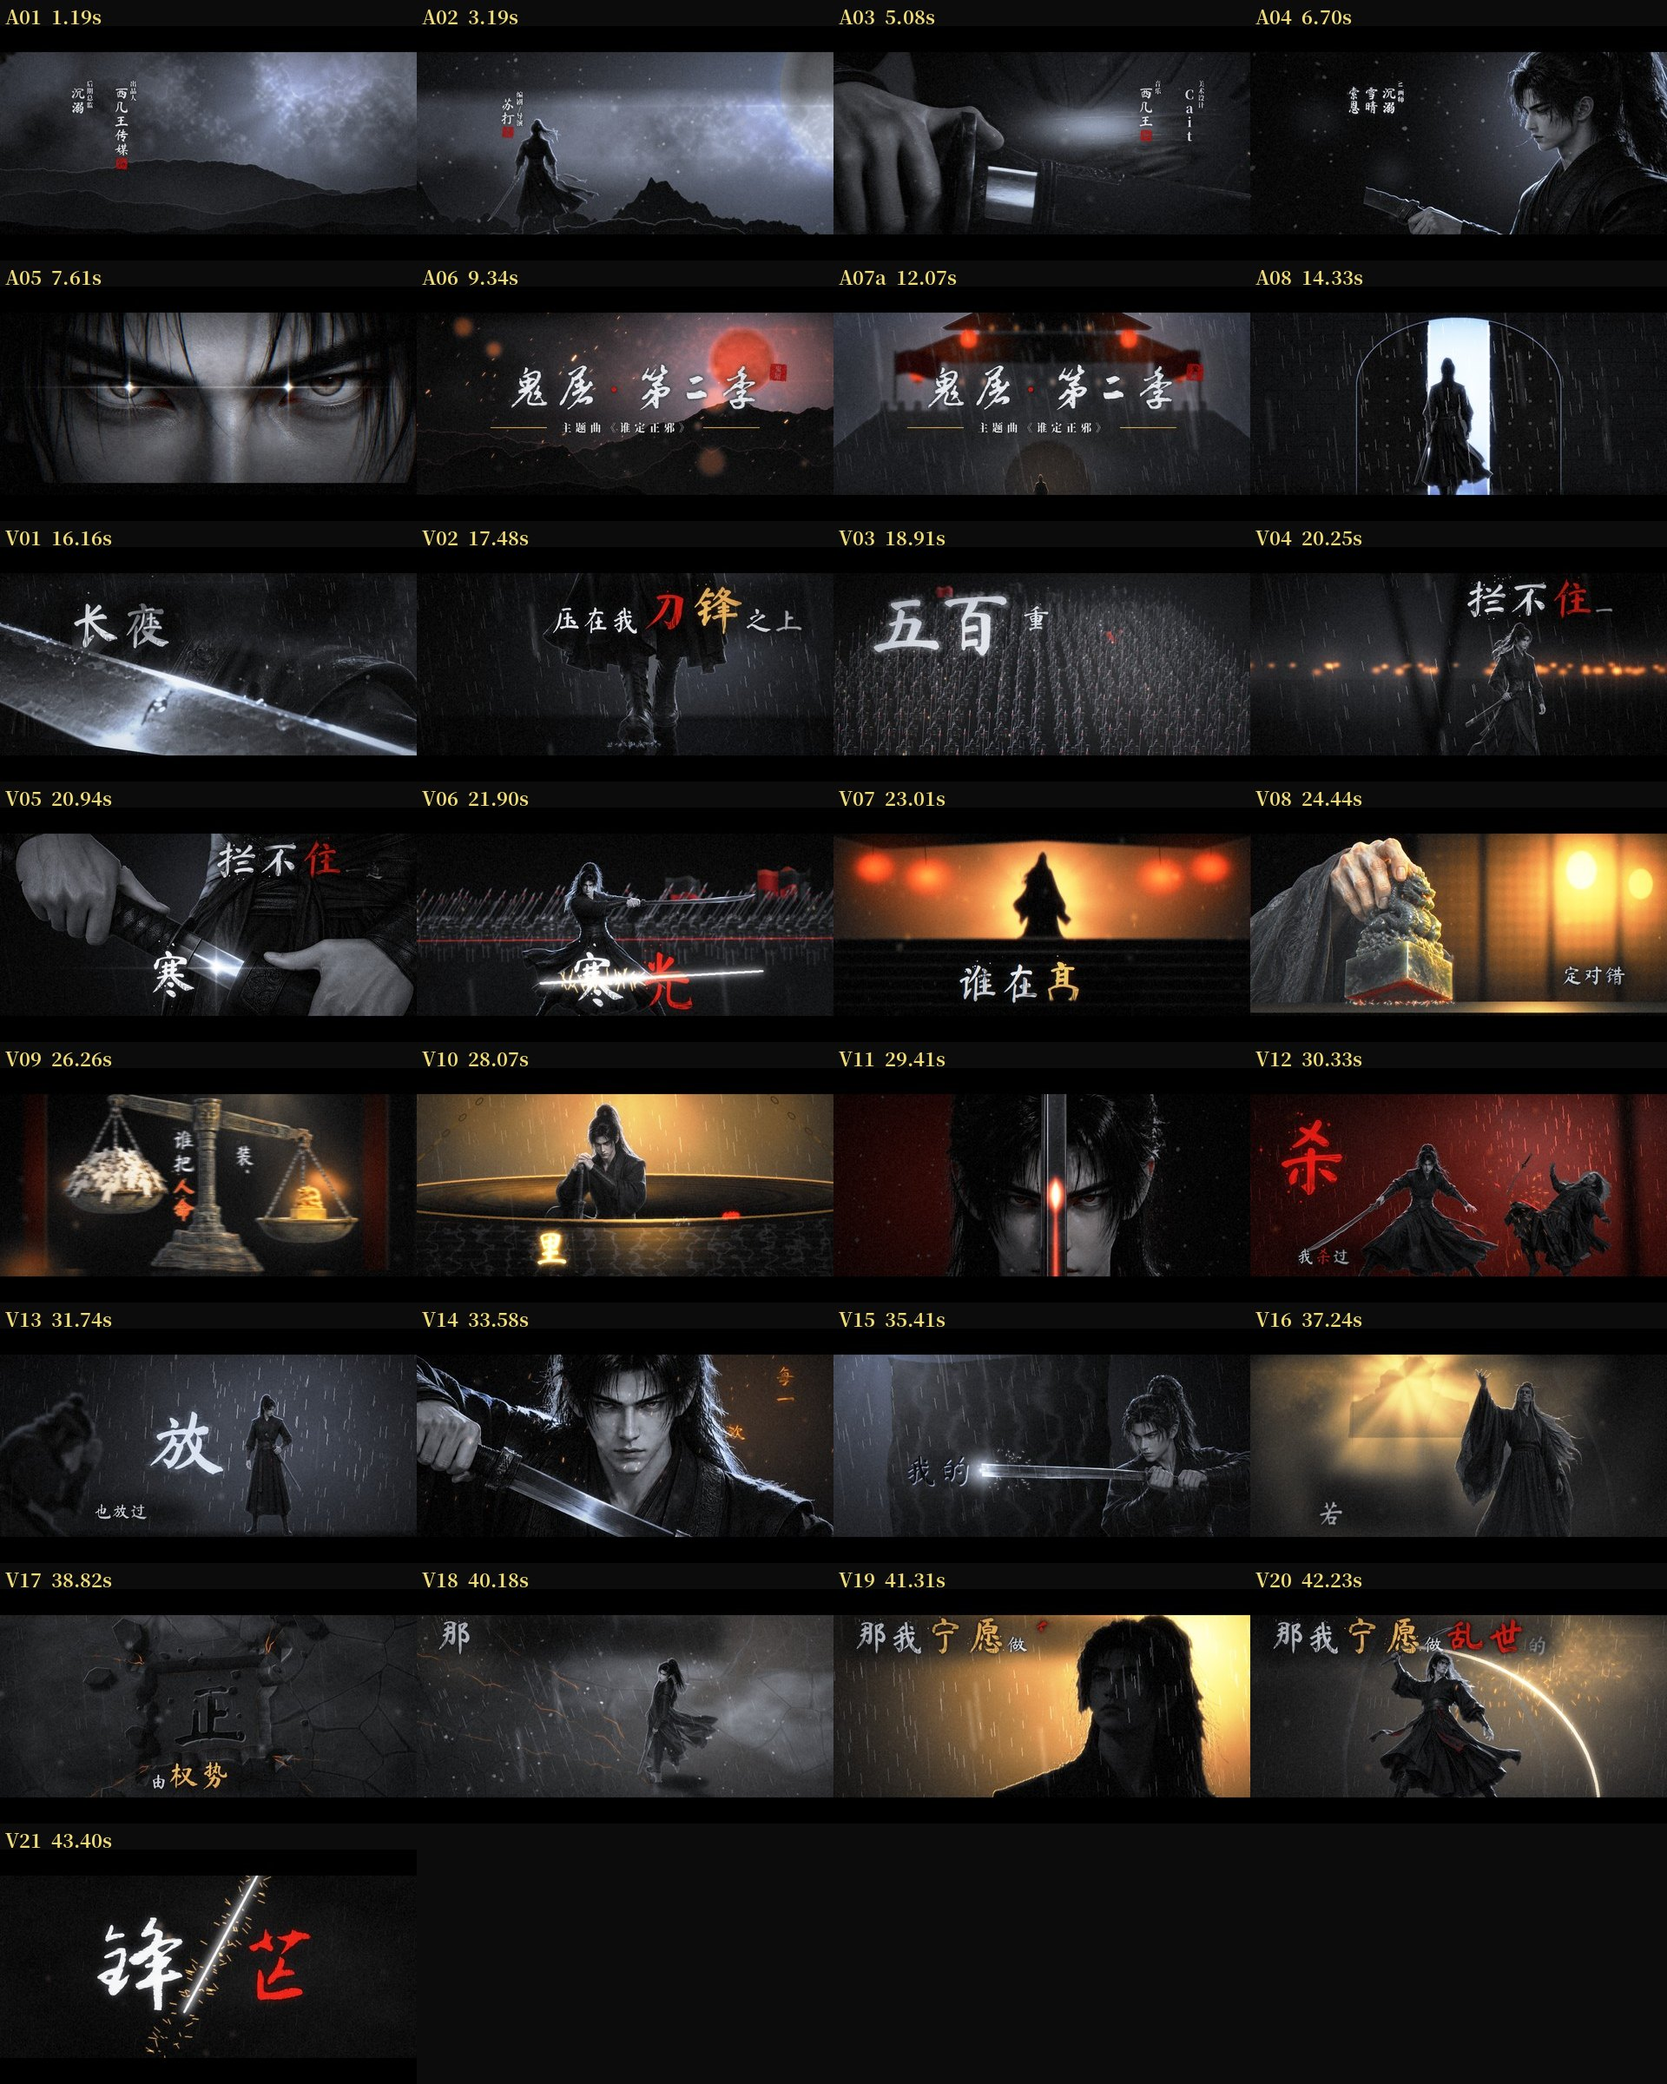
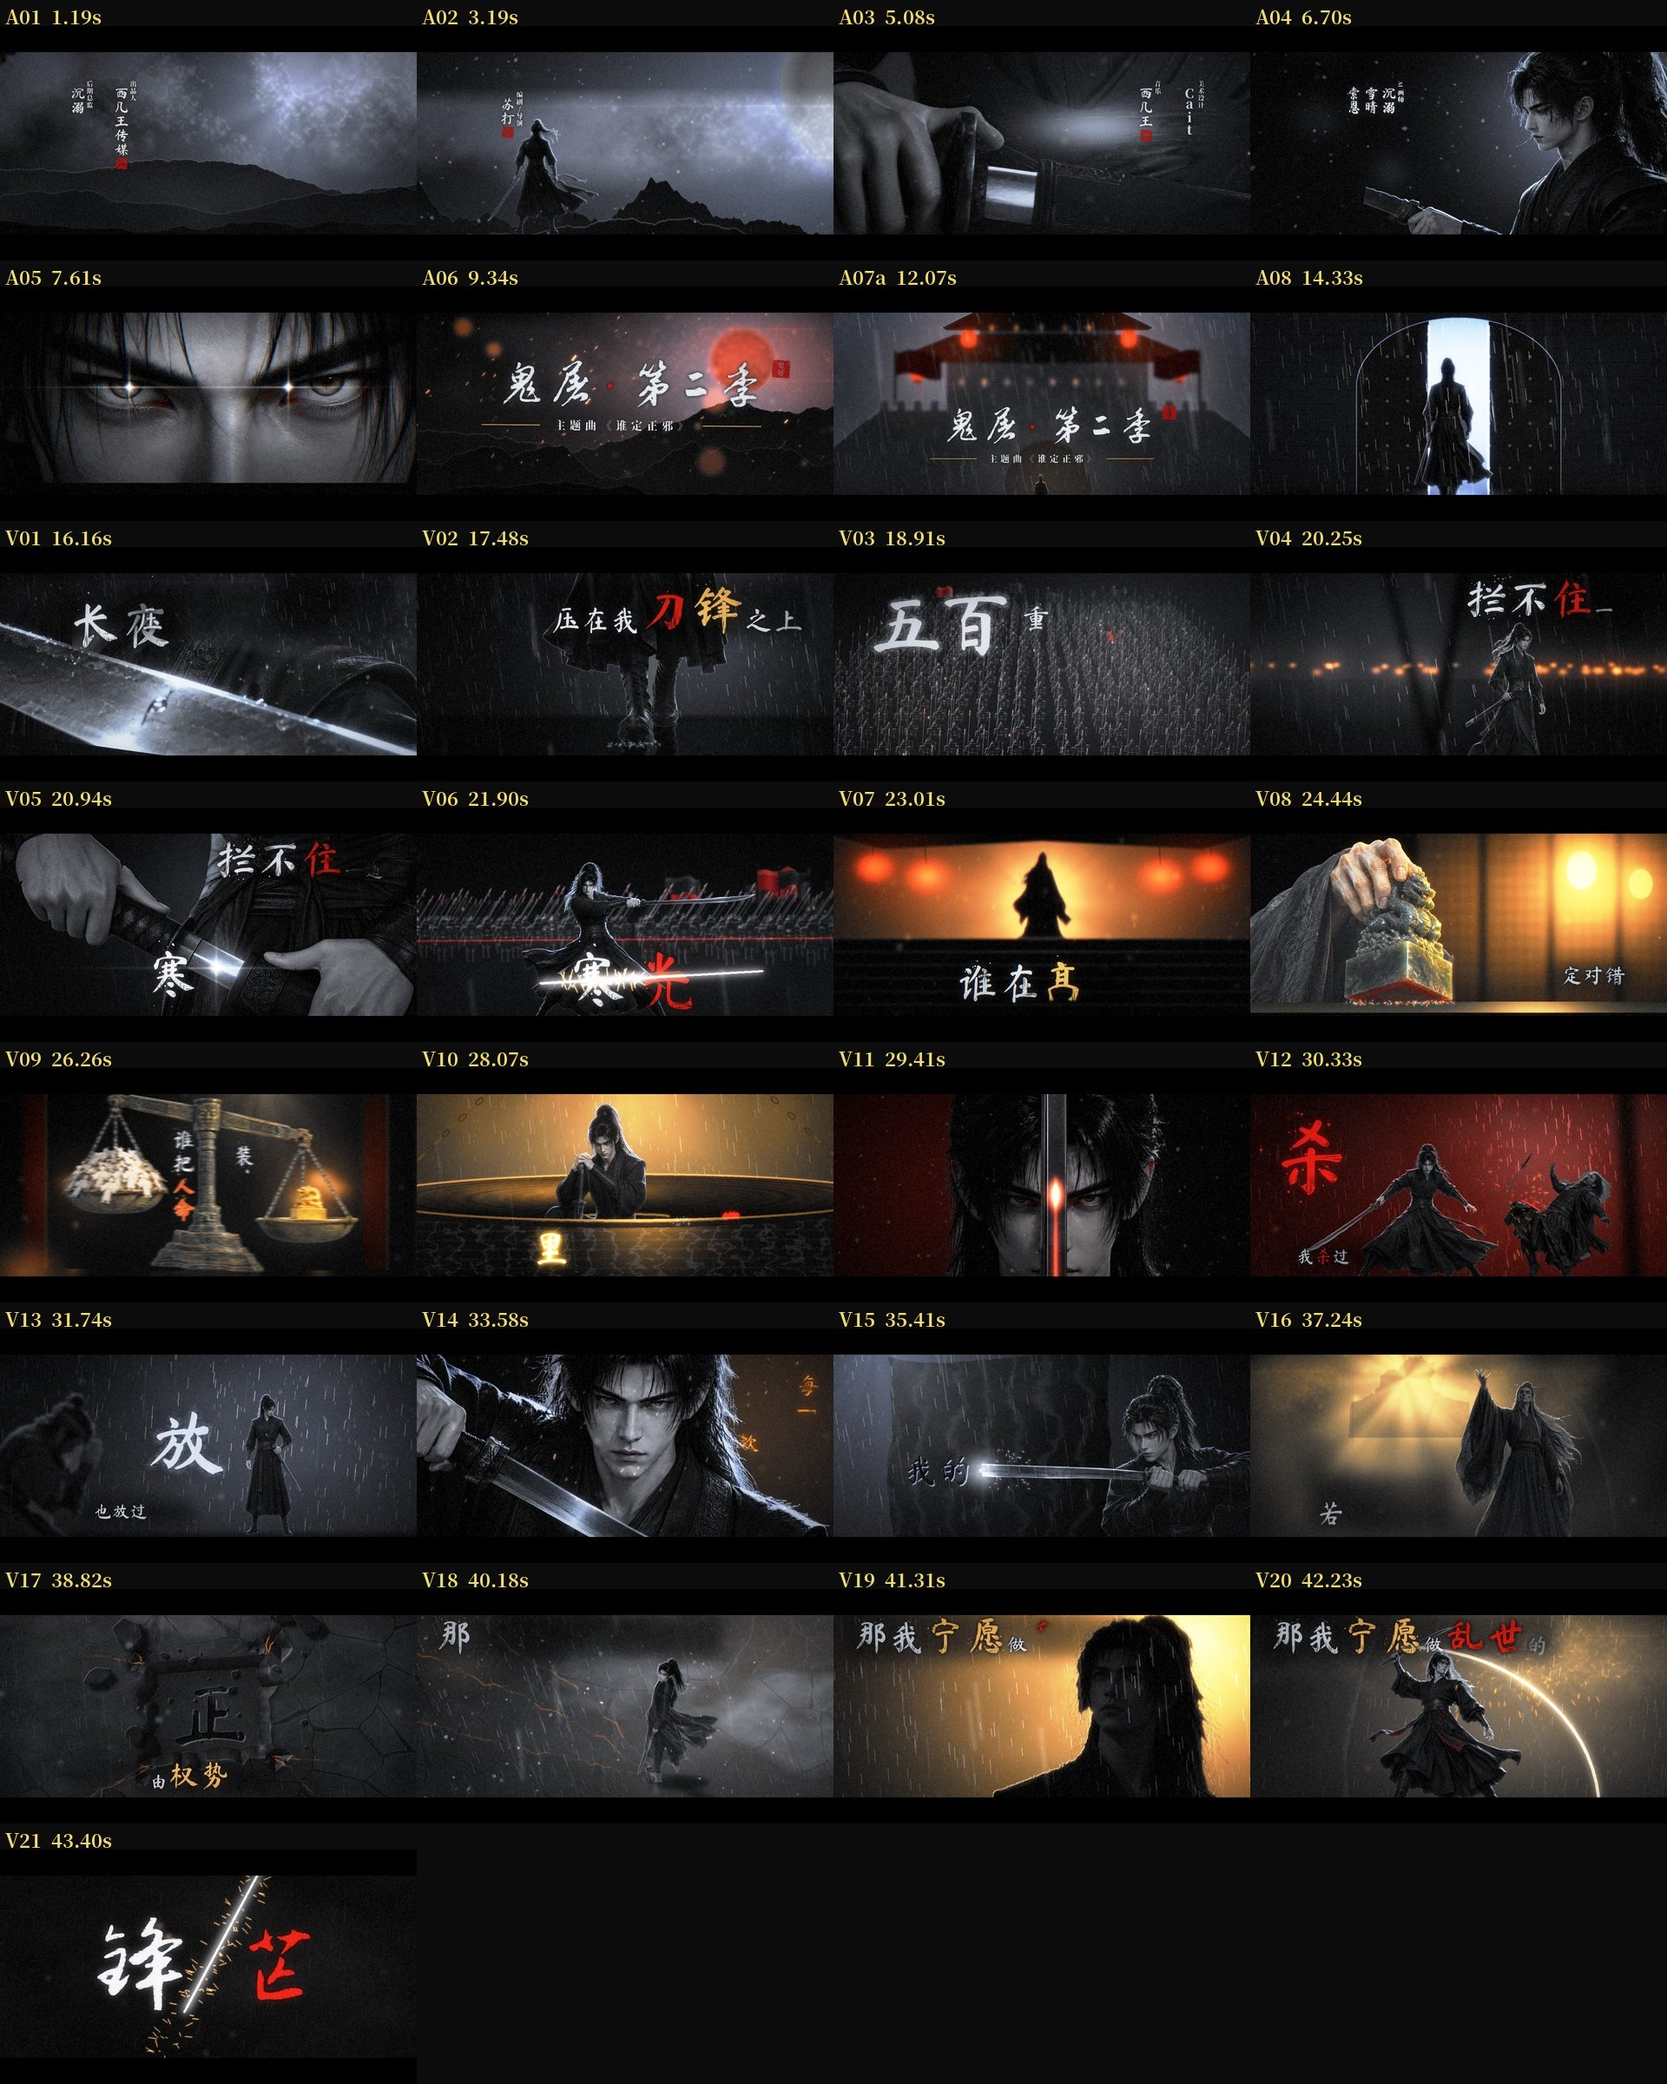
自动同步 11-09 16:13

diff --git a/units/sec_b_verse2.py b/units/sec_b_verse2.py
@@ -331,45 +331,131 @@ class V01(Shot):
 
 
 class V02(Shot):
+    """第十棒重做：宫城广场顶拍——跪拜人海「动起来」并去复制阵列感。
+    人群从底板里按亮度抠成独立层（背景 inpaint），人群层用随机场位移：
+      · 静态错位（人形尺度的噪声位移，打乱行列）+ 每人明暗差异（湿袍/干袍、宫灯照到与否）；
+      · 叩首波浪：钟声自大殿方向推来，波前经过时人群「沉」下去叩首（下沉 + 压暗 + 背部受顶光），每人早晚不一；
+      · 纵深层次：近排虚化、远排雾化；前景钟楼檐角（虚焦、滴水）视差最快；中层雾带漂移。
+    调色压回冷灰，只留宫灯一点朱。"""
     T_THUNDER = 88.905
+    S = 1.25
     def __init__(self):
-        self.P = _plate('v02_plaza', 1.25)
-        h, w = self.P.shape[:2]
-        P = self.P
+        from PIL import Image
+        S = self.S
+        P = np.asarray(Image.open(GEN_B + 'v02_plaza_raw.png').convert('RGB').resize((int(W * S), int(H * S)), Image.LANCZOS)).astype(np.float32) / 255
+        h, w = P.shape[:2]; self.h, self.w = h, w
+        lum = P.mean(-1); bgl = cv2.GaussianBlur(lum, (0, 0), 18)
+        yy, xx = np.mgrid[0:h, 0:w].astype(np.float32); self.xx, self.yy = xx, yy
+        cause = np.zeros((h, w), np.uint8)
+        cv2.fillPoly(cause, [np.int32([[0.445 * w, 0.27 * h], [0.555 * w, 0.27 * h], [0.60 * w, h], [0.405 * w, h]])], 1)
+        m = ((lum - bgl) > 0.02) & (lum > 0.16) & (yy > 0.27 * h) & (cause == 0)
+        m = cv2.morphologyEx(m.astype(np.uint8), cv2.MORPH_CLOSE, np.ones((5, 5), np.uint8))
+        m = cv2.morphologyEx(m, cv2.MORPH_OPEN, np.ones((3, 3), np.uint8))
+        A = cv2.GaussianBlur(cv2.dilate(m.astype(np.float32), np.ones((5, 5), np.uint8)), (0, 0), 1.4)
+        sm = cv2.resize(P, (w // 2, h // 2)); ms = cv2.resize((cv2.dilate(m, np.ones((11, 11), np.uint8)) * 255).astype(np.uint8), (w // 2, h // 2))
+        bg = cv2.inpaint((np.clip(sm, 0, 1) * 255).astype(np.uint8), ms, 7, cv2.INPAINT_TELEA).astype(np.float32) / 255
+        bg = cv2.resize(bg, (w, h))
+        # inpaint 留下的灰团压暗成湿地（不让它读成鬼影）
+        hole = cv2.GaussianBlur(cv2.dilate(m.astype(np.float32), np.ones((11, 11), np.uint8)), (0, 0), 6)[..., None]
+        self.BG = bg * (1 - 0.45 * hole)
+        self.F = P; self.A = A
+        persp = np.clip((yy / h - 0.25) / 0.75, 0, 1)                  # 0 = 远排（大殿前）… 1 = 近排
+        self.persp = persp
+        def nz(seed, sc):
+            return cv2.resize(K.fbm(max(4, h // sc), max(4, w // sc), seed, 3, 3), (w, h), interpolation=cv2.INTER_CUBIC)
+        sc = 0.4 + 0.9 * persp                                         # 位移幅度随透视：近排人大，错位也大
+        self.jx = (nz(4821, 70) - 0.5) * 2 * 20 * sc                   # 打乱行列（人形尺度噪声）
+        self.jy = (nz(4822, 70) - 0.5) * 2 * 12 * sc
+        self.tone = 0.70 + 0.55 * nz(4823, 45)                         # 每人明暗差异
+        self.delay = (nz(4824, 45) - 0.5) * 0.30                       # 叩首早晚
+        self.depth = 0.55 + 0.6 * nz(4825, 45)                         # 叩首深浅
+        self.sc = sc
         red = np.clip((P[..., 0] - P[..., 2]) * 3 - 0.15, 0, 1) * np.clip(P[..., 0] * 2 - 0.4, 0, 1)
-        self.lan = cv2.GaussianBlur(red, (0, 0), 10)[..., None]                    # 宫灯/反光区（闪烁）
-        x, y = np.meshgrid(np.arange(w, dtype=np.float32), np.arange(h, dtype=np.float32))
-        self.roof = (np.clip(1 - y / (h * 0.16), 0, 1))[..., None]                  # 殿顶（雷光）
+        self.lan = cv2.GaussianBlur(red, (0, 0), 10)[..., None]
+        self.roof = (np.clip(1 - yy / (h * 0.16), 0, 1))[..., None]
+        self.fog1 = K.fbm(h // 6, w // 3, 4826, 3, 5); self.fog2 = K.fbm(h // 6, w // 3, 4827, 3, 5)
         r = np.random.default_rng(4810)
         self.drops = r.uniform(0, 1, (700, 3))
+        self.drip = r.uniform(0, 1, (26, 3))
+
+    def bow(self, t):
+        """每像素叩首量 0..1：波前从大殿（远排）推向近排"""
+        t0 = self.t0 + 0.12
+        arr = t0 + 0.95 * self.persp + self.delay
+        q = np.clip((t - arr) / 0.30, 0, 1)
+        b = q * q * (3 - 2 * q)
+        tl = V(self.T_THUNDER)                                         # 雷后第二记：再压一次（颤）
+        if t > tl: b = b * (1 + 0.15 * math.exp(-(t - tl) / 0.25) * math.sin((t - tl) * 40))
+        return b * self.depth
 
     def render(self, t):
         u = self.u(t); e = eio(u)
         tl = V(self.T_THUNDER)
         env = 0.0 if t < tl else math.exp(-(t - tl) / 0.28)
         flick = 0.85 + 0.15 * math.sin(t * 17.0) * math.sin(t * 5.3)
-        P = self.P * (1 + self.lan * (0.6 * flick)) * (1 + self.roof * 2.5 * env) * (1 + 0.6 * env)
-        h, w = P.shape[:2]
-        zoom = 0.82 + 0.20 * ein(u, 1.6)                 # 顶拍压近（crane down）
-        fr = plate_view(P, zoom, w / 2, h / 2 + 30 - 60 * e, -3.0 + 3.0 * e)
+        h, w = self.h, self.w
+        b = self.bow(t)
+        sway = math.sin(t * 2.3) * 2.0
+        hfig = 30 + 70 * self.persp                                    # 本地人形高度（px）
+        mx = (self.xx - self.jx - sway * self.sc).astype(np.float32)
+        my = (self.yy - self.jy - b * hfig * 0.32).astype(np.float32)    # 叩首 = 下沉
+        F = cv2.remap(self.F, mx, my, cv2.INTER_LINEAR, borderMode=cv2.BORDER_REFLECT)
+        A = cv2.remap(self.A, mx, my, cv2.INTER_LINEAR, borderMode=cv2.BORDER_CONSTANT)[..., None]
+        shade = self.tone * (1 - 0.30 * b)                             # 俯下去的背进阴影
+        F = F * shade[..., None]
+        # 波前经过时：背上一道冷白顶光（钟声 + 雷光扫过人海）
+        tw = t - (self.t0 + 0.12)
+        front = np.exp(-((self.persp * 0.95 - tw) / 0.06) ** 2) if tw > -0.2 else np.zeros_like(self.persp)
+        F = F + (front * 0.12)[..., None] * np.array([0.85, 0.88, 0.95], np.float32)
+        P = self.BG * (1 - A) + F * A
+        P = P * (1 + self.lan * (0.6 * flick)) * (1 + self.roof * 2.5 * env) * (1 + 0.5 * env)
+        # 中层雾带（两层不同速度漂移）
+        f1 = cv2.resize(np.roll(self.fog1, int(t * 40) % self.fog1.shape[1], 1), (w, h))
+        f2 = cv2.resize(np.roll(self.fog2, -int(t * 22) % self.fog2.shape[1], 1), (w, h))
+        fog = (np.clip(f1 - 0.45, 0, 1) * (0.5 + 0.5 * (1 - self.persp)) * 0.55 + np.clip(f2 - 0.5, 0, 1) * 0.35)[..., None]
+        P = P * (1 - fog * 0.6) + fog * np.array([0.30, 0.32, 0.35], np.float32)
+        zoom = 0.84 + 0.18 * ein(u, 1.6)                               # 顶拍压近（crane down）
+        fr = plate_view(P, zoom, w / 2 + 40 * e, h / 2 + 30 - 60 * e, -3.0 + 3.0 * e)
+        # 纵深虚化：近排（画面下 1/4）轻虚，强调中层
+        bl = cv2.GaussianBlur(fr, (0, 0), 3.2)
+        x, y = K.grid()
+        dm = np.clip((y - 800) / 240, 0, 1)[..., None] * 0.8
+        fr = fr * (1 - dm) + bl * dm
         fr = fr * 1.05
-        # 钟声化作声波环掠过广场（从画面上方大殿方向扩来，透视压扁）
         rt = t - self.t0
-        for k in range(2):
+        for k in range(2):                                             # 钟声环（与 V01 同形）掠过广场
             rr = 80 + 1500 * max(0.0, rt - 0.18 * k) ** 0.85
             if rt > 0.18 * k:
                 fr, edge = ring_warp(fr, (960, 140), rr, 34, 14 * math.exp(-rt / 1.2), sy=0.55)
-                fr = fr + edge[..., None] * COLDC * 0.12 * math.exp(-rt / 1.0)
-        # 顶拍的雨：雨滴从镜头上方落向地面 → 屏幕上是自中心外放的短雨丝 + 地面溅点
+                fr = fr + edge[..., None] * COLDC * 0.10 * math.exp(-rt / 1.0)
         buf = np.zeros((H // 2, W // 2), np.float32)
-        for (a, b, s_) in self.drops:
+        for (a, b_, s_) in self.drops:
             ph = (t * (1.3 + s_) + a) % 1.0
-            ang = b * 2 * math.pi
+            ang = b_ * 2 * math.pi
             r0 = 60 + 1100 * ph ** 1.6; r1 = r0 + 18 + 70 * ph
             p0 = (int((960 + math.cos(ang) * r0) / 2), int((560 + math.sin(ang) * r0 * 0.8) / 2)); p1 = (int((960 + math.cos(ang) * r1) / 2), int((560 + math.sin(ang) * r1 * 0.8) / 2))
             cv2.line(buf, p0, p1, 0.18 + 0.5 * ph, 1, cv2.LINE_AA)
         fr = fr + cv2.resize(buf, (W, H))[..., None] * COLDC * 0.45
-        fr = fr * np.array([0.93, 0.97, 1.06], np.float32)
+        # 前景：钟楼檐角（虚焦黑剪影 + 冷边 + 滴水），视差最快
+        ox = -140 + 260 * e
+        ex = x - ox
+        edge_y = 300 - 0.42 * ex - 22 * np.abs(np.sin(ex / 40.0))          # 瓦当起伏的檐口线（左上角斜切）
+        eave = np.clip((edge_y - y) / 10, 0, 1)
+        eave = cv2.GaussianBlur(eave.astype(np.float32), (0, 0), 7)
+        rim = np.clip(eave - cv2.GaussianBlur(eave, (0, 0), 6), 0, 1) * 0.0 + np.exp(-((y - edge_y) / 6) ** 2) * (edge_y > 0) * 0.25
+        fr = fr * (1 - eave[..., None] * 0.94) + eave[..., None] * 0.012 + cv2.GaussianBlur(rim.astype(np.float32), (0, 0), 3)[..., None] * COLDC * 0.5
+        dbuf = np.zeros((H, W), np.float32)
+        for (a, b_, s_) in self.drip:                                  # 檐口滴水（虚焦长条）
+            xx0 = a * 640
+            yy0 = 300 - 0.42 * xx0 - 22 * abs(math.sin(xx0 / 40.0))
+            ph = (t * (0.9 + s_) + b_) % 1.0
+            yd = yy0 + 900 * ph * ph
+            cv2.line(dbuf, (int(xx0 + ox), int(yd)), (int(xx0 + ox), int(yd + 40 + 60 * ph)), 0.7, 3, cv2.LINE_AA)
+        fr = fr + cv2.GaussianBlur(dbuf, (0, 0), 3)[..., None] * COLDC * 0.5
+        # 调色：冷灰，宫灯保留一点朱
+        lum = fr.mean(-1, keepdims=True)
+        lanS = cv2.resize(self.lan, (W, H))[..., None] if False else 0.0
+        fr = (lum + (fr - lum) * 0.22) * np.array([0.95, 0.98, 1.03], np.float32)
         if tl <= t: fr = fr * (1 + 0.35 * pulse(t, tl + 0.05, 0.12))
         return fr, (3 if abs(t - tl) < 0.04 else 0)
 

diff --git a/tools/a_contact.py b/tools/a_contact.py
@@ -42,13 +42,13 @@ def items_for(cmd):
             c = M.CUTS.get(S.__name__)
             if c and c[0] != 'hard':
                 items.append((S.__name__ + ' ' + c[0][:10] + ' 中点', S.t0 + (c[2] - c[1]) / 2))
-        items += [('A06 crane 起', 8.00), ('A06 crane 止', 10.40), ('V04 走近 起', 19.80), ('V04 走近 止', 20.52), ('V06 环绕 起', 21.25),
+        items += [('A06 crane 起', 8.00), ('A06 crane 止', 10.40), ('A07a 片名换机位', 10.90), ('A07a 片名随升镜', 13.10), ('V14 荷兰角 起', 32.62), ('V14 荷兰角 止', 34.30), ('V04 走近 起', 19.80), ('V04 走近 止', 20.52), ('V06 环绕 起', 21.25),
                   ('V06 刀身扫光', 21.40), ('V06 环绕 止', 22.40), ('V13 焦点·跪者', 30.95), ('V13 转焦中', 31.15), ('V13 焦点·鬼屠', 31.60),
                   ('A03 环绕 止', 5.80), ('A04 dolly 止', 7.25), ('V08 tilt 止', 25.10), ('V02 刀锋', 17.81), ('V16 入 主', 36.43),
                   ('V17 正 原样', 39.31), ('V19 起', 40.95), ('V19 中', 41.30), ('V19 止', 41.68), ('V20 slash_coil', 41.90),
                   ('V09入 刷碎 前', 25.24), ('V09入 刷碎 后', 25.38)]
         items += [('V12入 前', 29.80), ('V12入 后', 29.93), ('V21入 前', 42.60), ('V21入 后', 42.76),
-                  ('V10 膝部', 27.98), ('V20 蓄势', 41.95), ('V20 上提', 42.05), ('V21 末段余烬', 43.80), ('Cait 竖排', 5.0), ('V02 刀锋', 17.6),
+                  ('V10 膝部·倒影', 27.98), ('V20 蓄势', 41.95), ('V20 上提', 42.05), ('V21 末段余烬', 43.80), ('Cait 竖排', 5.0),
                   ('署名', 1.6), ('署名2', 4.9), ('片名', 8.6), ('片名化灰', 13.5), ('长夜', 16.4), ('五百', 19.1), ('拦不住', 20.9),
                   ('寒光', 21.6), ('谁在高处', 23.3), ('V08', 23.80), ('V08 落印', 24.44), ('V08 俯拍印痕', 24.62), ('罪状', 24.95),
                   ('沿梁', 26.95), ('V10 铜盘', 27.9), ('称量', 28.7), ('杀', 30.3), ('放', 32.2), ('火星成字', 34.25), ('主张', 36.0),

diff --git a/units/sec_c_pre2_chorus2.py b/units/sec_c_pre2_chorus2.py
@@ -1002,7 +1002,9 @@ class C15(Shot):
         x = 760 + 260 * eout(k / 0.6, 2) + 20 * k
         # 第五棒（评审 P0：扁平黑剪影）：真实雷光照亮的生图精灵——冷白轮廓光 + 闪电补光 + 体积光，不再填黑
         fr = K.vol_light(fr, (x + 120, y - 330), 520, (0.85, 0.9, 1.0), 0.35 + 0.5 * fl)
-        fr, _ = put(fr, t, 'C/leap_arc', x, y, 480, rim=(0.9, 0.93, 1.0), rim_amt=3.4, rim_dir=(0.3, -1), flash=0.6 * fl, expo=0.8 + 0.5 * bolt_env(t, tb),
+        e1_, e2_ = bolt_env(t, tb), bolt_env(t, tb2)          # 第十一棒（critic_C_r5 P2⑥ 雷光未勾人）：哪道闪电亮，轮廓光就从哪一侧勾出整个人
+        rdx = (0.75 * e1_ - 0.75 * e2_) / (e1_ + e2_ + 0.25) + 0.3 * 0.25 / (e1_ + e2_ + 0.25)
+        fr, _ = put(fr, t, 'C/leap_arc', x, y, 480, rim=(0.9, 0.93, 1.0), rim_amt=3.4 + 3.2 * min(1.0, e1_ + e2_), rim_dir=(rdx, -1), flash=0.6 * fl, expo=0.8 + 0.5 * bolt_env(t, tb),
                     sat=0.55, mblur=(0, 12 * (1 - sm(0.05, 0.22, k))), wind=10 * ramp)
         fr = rain(fr, self.t0 + 0.45 + (t - self.t0 - 0.45) * (0.08 if k > 0.45 else 1), 150, inten=1.1, angle=10,
                   freeze=sm(0.35, 0.6, k) * 0.5)
